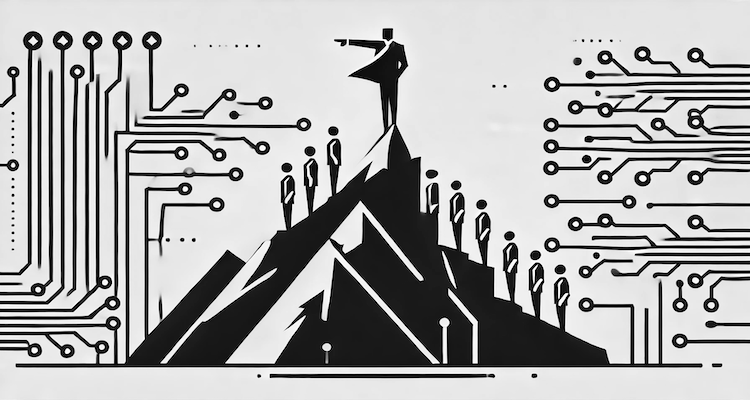
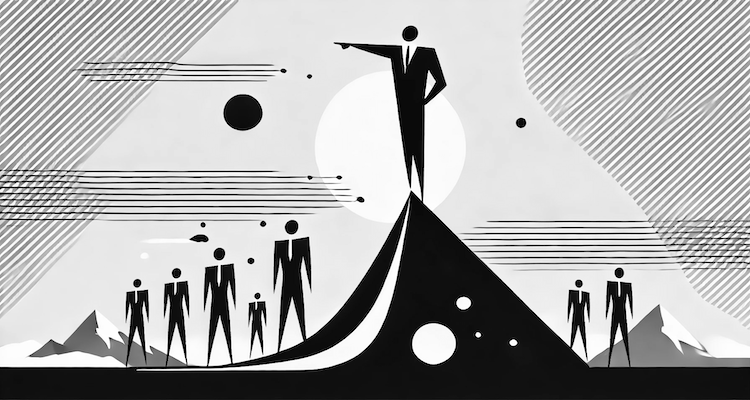
Organisation template post

diff --git a/_posts/organisation-template.md b/_posts/organisation-template.md
@@ -1,0 +1,45 @@
+---
+title: "Organise your teams for combined health, happiness and success"
+excerpt: "I have been working on some things to help you and your organisation 🎉."
+coverImage: "/assets/blog/categories/management.png"
+date: "2022-02-20"
+author:
+  name: SVO
+  picture: "/assets/blog/authors/svo.png"
+ogImage:
+  url: "/assets/blog/categories/management.png"
+---
+
+## Organise your teams for combined health, happiness and success
+
+I have been working on some things to help you and your organisation 🎉
+
+Fork this [GitHub repository](https://github.com/svo/organisation-template) and modify it to your hearts content. The instructions on how to modify the content and build the docker images is in the [BUILD.md](https://github.com/svo/organisation-template/blob/main/BUILD.md) file. Once you have the images you can then deploy to your infrastructure of choice.
+
+It includes:
+
+- The use of the nomenclature from [Team Topologies](https://teamtopologies.com/key-concepts) to define team boundaries and interaction modes
+- Images generated from some [PlantUML](https://plantuml.com/) templates to communicate team and role structures
+- [Thoughtworks](https://www.thoughtworks.com/) radars for communicating sensible defaults for engineering and architecture
+- Suggested tooling and mechanisms for managing decisions
+  - [Architecture Decision Records (ADR)](https://cognitect.com/blog/2011/11/15/documenting-architecture-decisions)
+  - [RAPID Model](https://www.bain.com/insights/rapid-tool-to-clarify-decision-accountability/)
+- Tooling and mechanisms for planning and managing sets of tasks
+  - [RACI Model](https://racichart.org/the-raci-model/)
+  - [RAID Analysis](https://www.techagilist.com/agile/scrum/raid/)
+- A sample team charter to help you have happy and productive peeps
+- Approaches to managing technology entropy
+- Guidelines on software development and delivery management
+- A strategy for managing Technical Debt
+- An approach for communicating cost and profitability
+- A view on incident management
+
+The following image is the legend for the [PlantUML](https://plantuml.com/) documents.
+
+![Legend](/assets/blog/organisation-template/organisation-template-legend.png "Legend")
+
+With the following being an example illustration of a potential role to function distribution.
+
+![Role Distribution](/assets/blog/organisation-template/organisation-template-role-distribution.png "Role Distribution")
+
+I will be continuing to be update this as a template, and hope that it proves useful or interesting.
